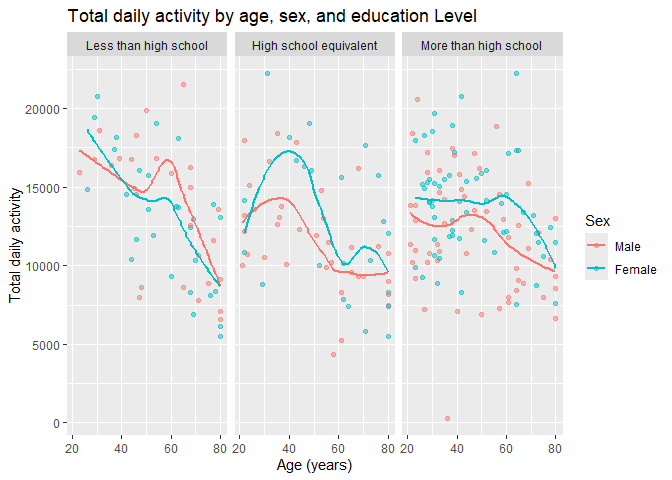
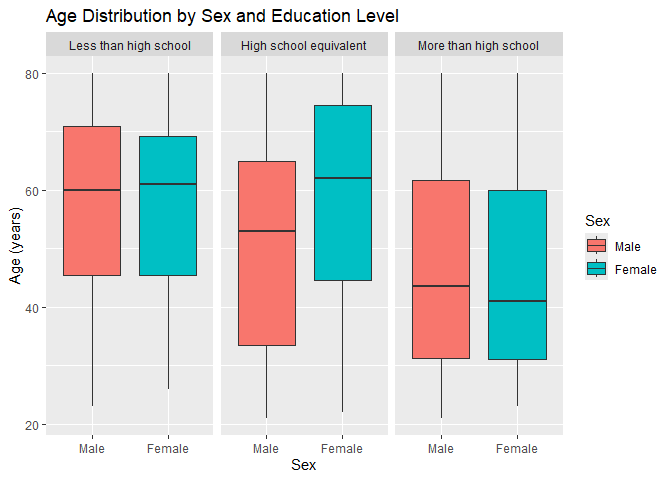
Problem 3: Plot impact of months, membership status and bike type on ride duration distribution; add comment

diff --git a/p8105_hw3_xc2859.md b/p8105_hw3_xc2859.md
@@ -5,20 +5,6 @@ Xiaoxue Cui
 
 ``` r
 library(tidyverse)
-```
-
-    ## ── Attaching core tidyverse packages ──────────────────────── tidyverse 2.0.0 ──
-    ## ✔ dplyr     1.2.1     ✔ readr     2.2.0
-    ## ✔ forcats   1.0.1     ✔ stringr   1.6.0
-    ## ✔ ggplot2   4.0.3     ✔ tibble    3.3.1
-    ## ✔ lubridate 1.9.5     ✔ tidyr     1.3.2
-    ## ✔ purrr     1.2.2     
-    ## ── Conflicts ────────────────────────────────────────── tidyverse_conflicts() ──
-    ## ✖ dplyr::filter() masks stats::filter()
-    ## ✖ dplyr::lag()    masks stats::lag()
-    ## ℹ Use the conflicted package (<http://conflicted.r-lib.org/>) to force all conflicts to become errors
-
-``` r
 library(patchwork)
 library(p8105.datasets)
 library(hexbin)
@@ -158,7 +144,7 @@ noaa_cleaned_df |>
     ## ℹ Use `summarise(.by = c(id, year, month))` for per-operation grouping
     ##   (`?dplyr::dplyr_by`) instead.
 
-![](p8105_hw3_xc2859_files/figure-gfm/unnamed-chunk-3-1.png)<!-- -->
+![](p8105_hw3_xc2859_files/figure-gfm/unnamed-chunk-4-1.png)<!-- -->
 
 Observable / interpretable structure:
 
@@ -211,12 +197,15 @@ snowfall_plot =
   )
 
 # Combine the two plots into a two-panel plot
-temperature_plot + snowfall_plot
+temperature_plot + snowfall_plot + 
+  plot_annotation(
+    title = "Temperature and snowfall patterns in New York"
+  )
 ```
 
     ## Picking joint bandwidth of 3.76
 
-![](p8105_hw3_xc2859_files/figure-gfm/unnamed-chunk-4-1.png)<!-- -->
+![](p8105_hw3_xc2859_files/figure-gfm/unnamed-chunk-5-1.png)<!-- -->
 
 Comments on plots:
 
@@ -375,7 +364,7 @@ nhanes_merged_df |>
   )
 ```
 
-![](p8105_hw3_xc2859_files/figure-gfm/unnamed-chunk-7-1.png)<!-- -->
+![](p8105_hw3_xc2859_files/figure-gfm/unnamed-chunk-8-1.png)<!-- -->
 
 Comment: Age distribution is different across education levels. Among
 participants with less than a high school education, the median ages of
@@ -419,7 +408,7 @@ nhanes_merged_df |>
     ## ℹ Use `summarise(.by = c(seqn, sex, age, education))` for per-operation
     ##   grouping (`?dplyr::dplyr_by`) instead.
 
-![](p8105_hw3_xc2859_files/figure-gfm/unnamed-chunk-8-1.png)<!-- -->
+![](p8105_hw3_xc2859_files/figure-gfm/unnamed-chunk-9-1.png)<!-- -->
 
 Comment: Across all three education levels, total daily activity
 generally decreased with age, although the trend was not completely
@@ -470,7 +459,7 @@ nhanes_merged_df |>
     ## ℹ Use `summarise(.by = c(education, sex, minute))` for per-operation grouping
     ##   (`?dplyr::dplyr_by`) instead.
 
-![](p8105_hw3_xc2859_files/figure-gfm/unnamed-chunk-9-1.png)<!-- -->
+![](p8105_hw3_xc2859_files/figure-gfm/unnamed-chunk-10-1.png)<!-- -->
 
 (For the 24-hour activity plot by sex and education level, I first tried
 to plot MIMS activities for all participants. But except for several
@@ -673,7 +662,7 @@ starting station with 163 rides, followed by University Pl & E 14 St
 with 155 rides. The top 5 stations had similar number of rides, ranging
 from 146 to 163.
 
-**Effects on median ride duration**
+**Effects on median ride duration by year, month and weekdays**
 
 ``` r
 citibike_tidy_df |>
@@ -723,7 +712,7 @@ citibike_tidy_df |>
     ## ℹ Use `summarise(.by = c(year, month, weekdays))` for per-operation grouping
     ##   (`?dplyr::dplyr_by`) instead.
 
-![](p8105_hw3_xc2859_files/figure-gfm/unnamed-chunk-13-1.png)<!-- -->
+![](p8105_hw3_xc2859_files/figure-gfm/unnamed-chunk-14-1.png)<!-- -->
 
 Comment: The median ride duration was consistently longer in July than
 in January in both years. Comparing the two years, the median ride
@@ -731,3 +720,43 @@ duration was also generally longer in 2020 than in 2024, with a
 particularly large decrease in July in 2024. On weekends, rides tended
 to be longer than on weekdays. This weekly pattern was most pronounced
 in July 2020 and least noticeable in January 2024.
+
+**Effects on median ride duration in 2024 by month, membership status,
+and bike type**
+
+``` r
+citibike_tidy_df |>
+  filter(year == 2024) |>
+  mutate(
+    month = factor(
+      month,
+      levels = c("January", "July")
+    )
+  ) |>
+  ggplot(
+    aes(
+      x = duration,
+      fill = rideable_type
+    )
+  ) +
+  geom_density(alpha = 0.4) +
+  facet_grid(member_casual ~ month) +
+  labs(
+    title = "Ride duration distribution by month, membership status, and bike type in 2024",
+    x = "Ride duration (minutes)",
+    y = "Density",
+    fill = "Bike type"
+  ) + 
+  theme(legend.position = "bottom")
+```
+
+![](p8105_hw3_xc2859_files/figure-gfm/unnamed-chunk-15-1.png)<!-- -->
+
+Comment: Casual riders generally had longer and more variable ride
+durations than Citi Bike members, and this difference was especially
+noticeable in July. Among casual riders, the ride duration distributions
+differed somewhat between classic and electric bikes, and classic bike
+rides showed a wider distribution of ride duration. In contrast, among
+members, the distributions of ride duration for the two types greatly
+overlapped, which suggests that the impact of bike type on ride duration
+may be less important for members than for casual riders.
